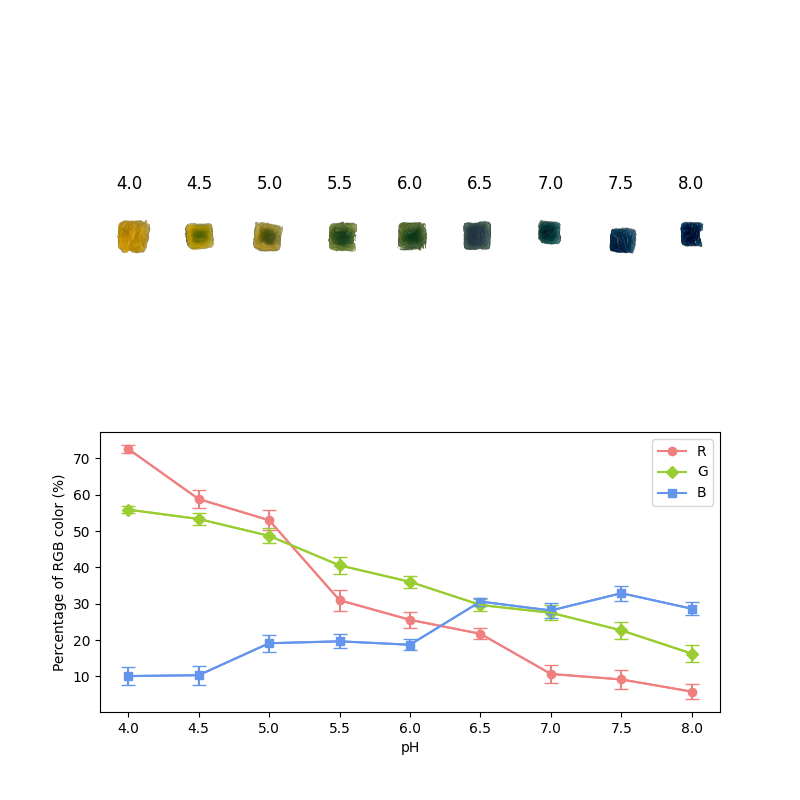
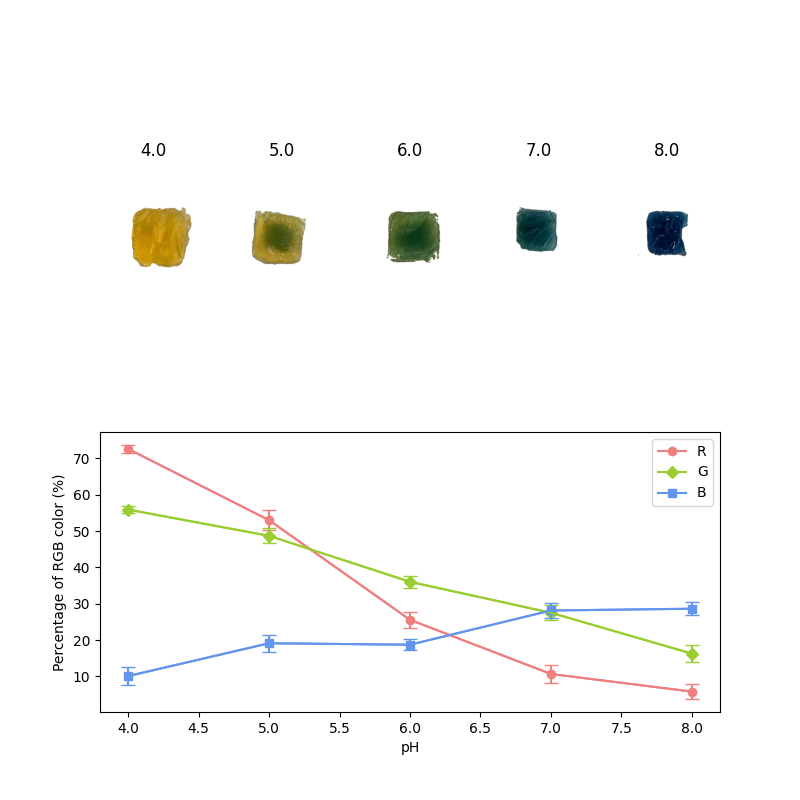
1

diff --git a/calibration_curve.py b/calibration_curve.py
@@ -60,11 +60,11 @@ def load_images(folder_name):
   folder_path = os.path.join(os.getcwd(), folder_name)
   list_files = os.listdir(folder_path)
   list_files = natsorted(list_files)
-  image_dict = {}
+  images = []
   for filename in list_files:
     file_path = os.path.join(folder_path, filename)
-    image_dict[filename] = ski.io.imread(file_path)
-  return image_dict
+    images.append(ski.io.imread(file_path))
+  return images
 
 def get_rgb(img):
   """Get the average RGB of an image."""
@@ -81,13 +81,19 @@ def get_rgb(img):
 
 def rgb_stdev(imgs):
   """Get the average RGB and standard deviation of images."""
-  rgbs = [get_rgb(i) for]
+  rgbs = [get_rgb(i) for i in imgs]
+  rs = [i[0] for i in rgbs]
+  gs = [i[1] for i in rgbs]
+  bs = [i[2] for i in rgbs]
+  average_rgb = [statistics.mean(rs), statistics.mean(gs), statistics.mean(bs)]
+  st_dev = [statistics.stdev(rs), statistics.stdev(gs), statistics.stdev(bs)]
+  return average_rgb, st_dev
 
 def comparison(images):
   """Display the result of comparison and the RGB value of each one."""
   # Remove background
   processed_images = []
-  processed_ph4_images = [remove_background(i, preprocess(i)) for i in images['4']]
+  processed_ph4_images = [remove_background(i, preprocess(i)) for i in images[0]]
   processed_images.append(processed_ph4_images)
   # Show RGB values
   pHs = [4]
@@ -121,13 +127,15 @@ def comparison(images):
   # Add legends
   plt.legend((p1[0], p2[0], p3[0]), ("R", "G", "B"), loc='upper right')
   # axis label
-  plt.set_ylabel('Percentage of RGB color (%)')
-  plt.set_xlabel('pH')
+  # plt.set_ylabel('Percentage of RGB color (%)')
+  # plt.set_xlabel('pH')
+  plt.axis([4, 8, 0, 100])
   plt.show()
 
 def main():
+  images = []
   ph4_images = load_images('calibration curve\\4.0')
-  images = {'4': ph4_images}
+  images.append(ph4_images)
   comparison(images)
 
 
